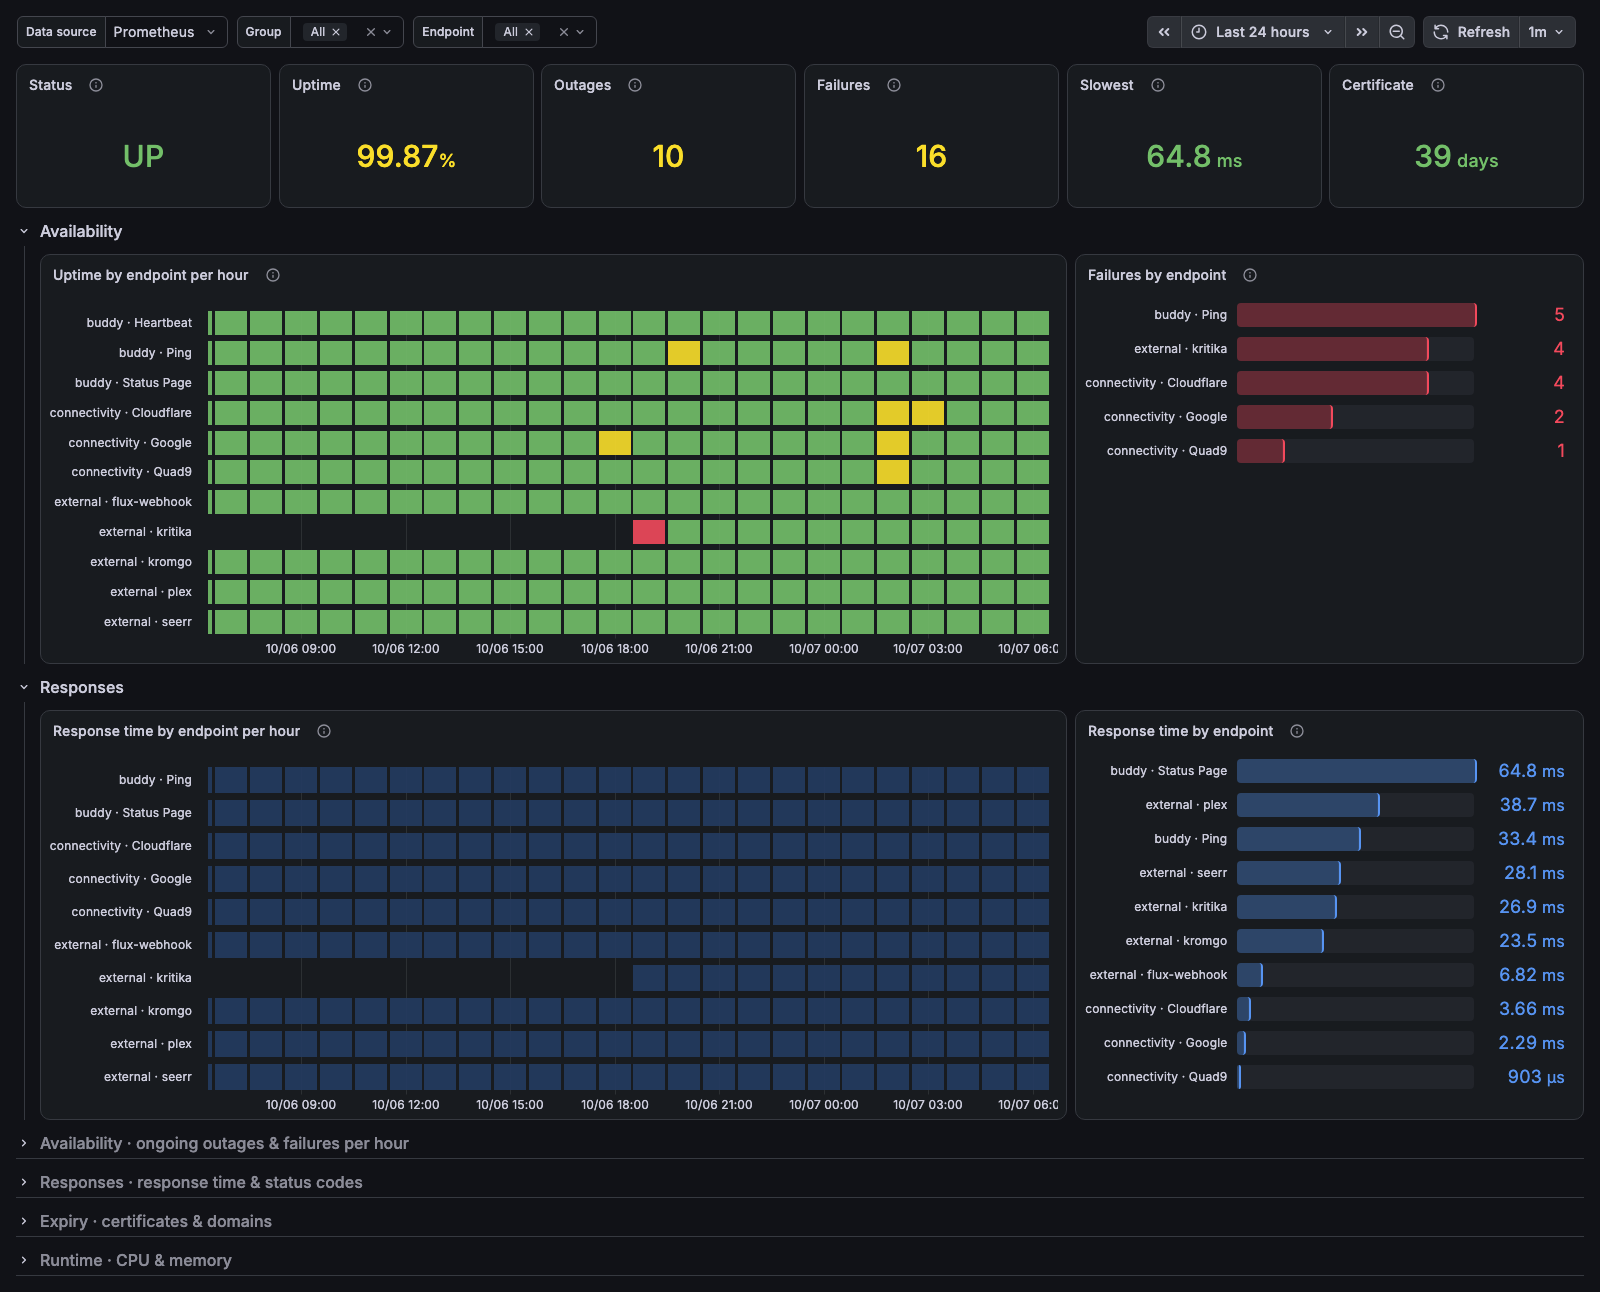
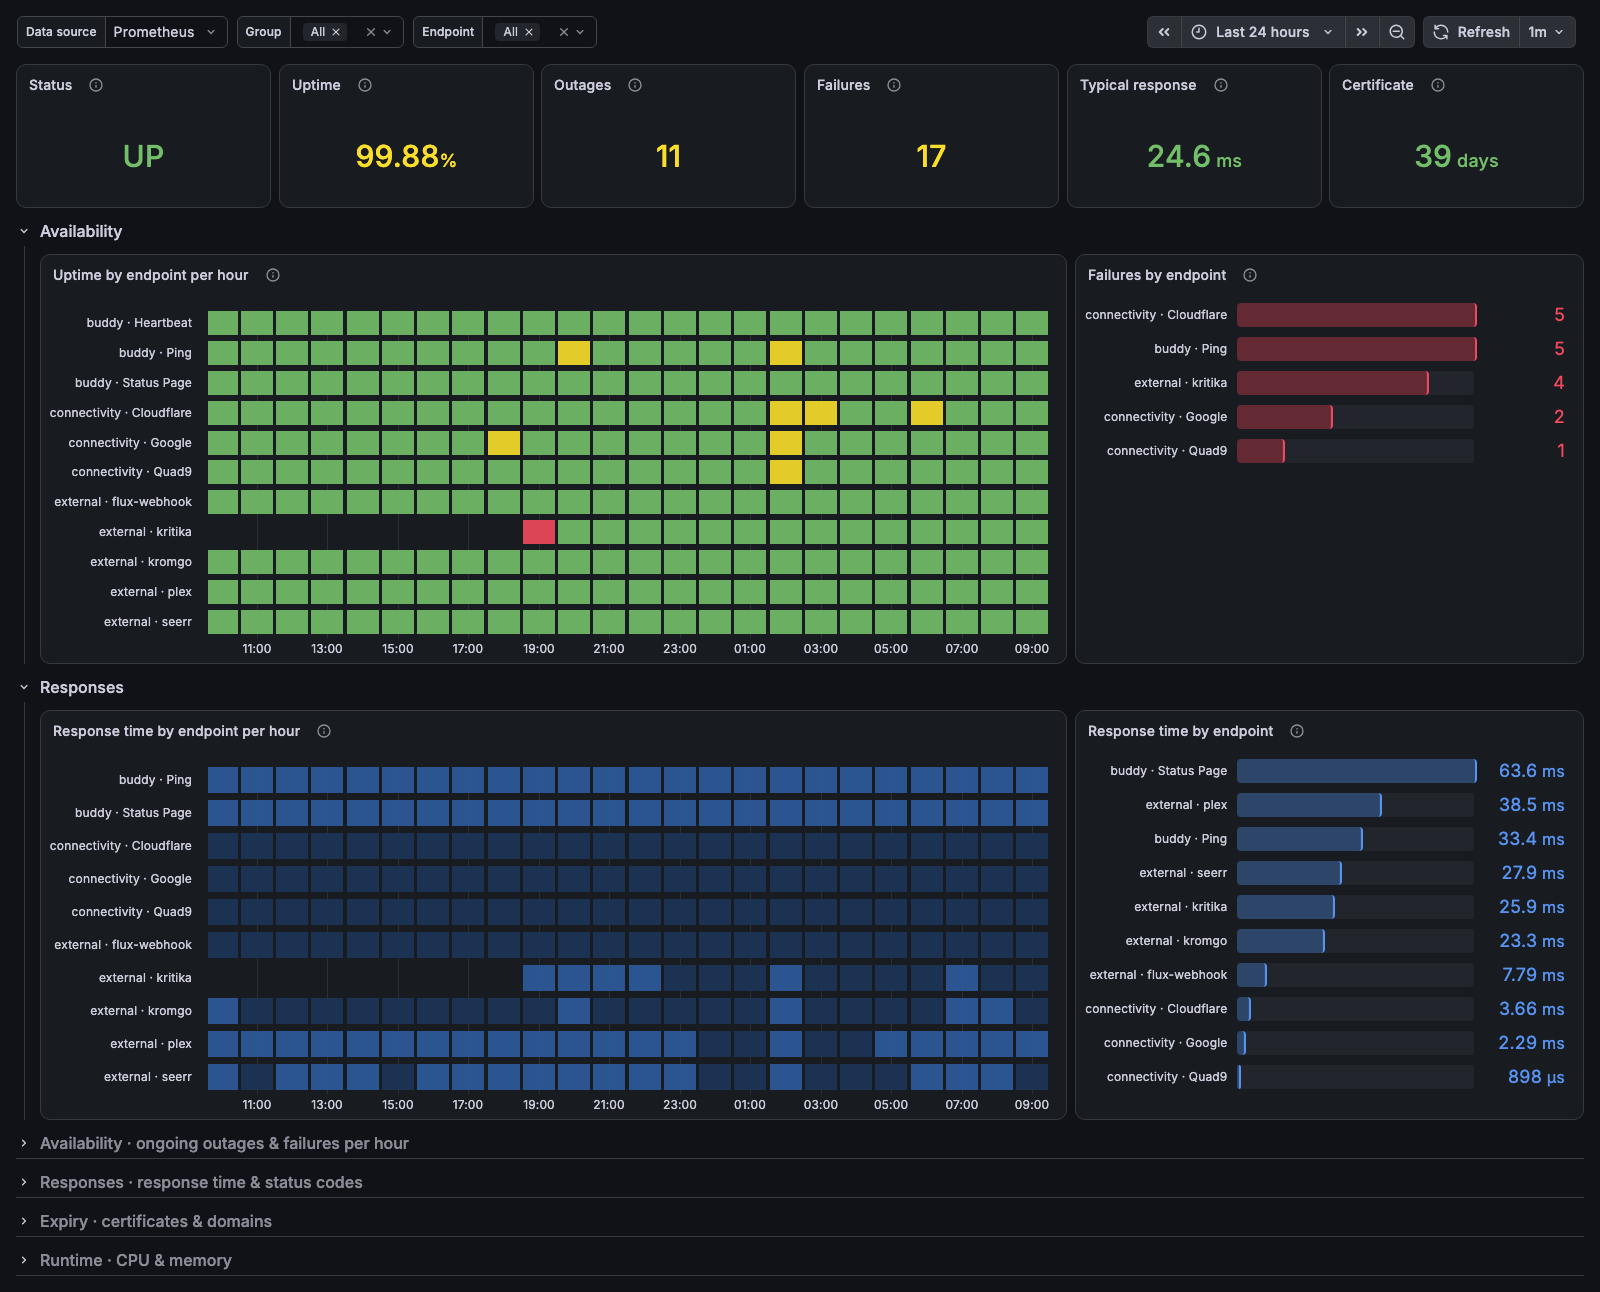
fix(gatus): replace the duplicate slowest tile and widen the response-time ramp
The Slowest tile repeated the first bar of Response time by endpoint; Typical response is the median of the endpoints' means. The hourly response-time grid now steps at 25, 100 and 250 ms and 1 s.

diff --git a/gatus/README.md b/gatus/README.md
@@ -8,7 +8,7 @@ Gatus: endpoint status, uptime, outages and response times.
 
 ## Overview
 
-Built on the Prometheus metrics exported by [Gatus](https://github.com/TwiN/gatus). The top row shows whether every endpoint's latest check passed, then uptime, outages, failed checks, the slowest endpoint's response time and days until the soonest certificate expires. Below it, uptime by endpoint per hour beside failures by endpoint, and response time by endpoint per hour beside the slowest endpoints.
+Built on the Prometheus metrics exported by [Gatus](https://github.com/TwiN/gatus). The top row shows whether every endpoint's latest check passed, then uptime, outages, failed checks, the typical endpoint response time and days until the soonest certificate expires. Below it, uptime by endpoint per hour beside failures by endpoint, and response time by endpoint per hour beside the slowest endpoints.
 
 Collapsed rows:
 - **Availability · ongoing outages & failures per hour:** endpoints failing now and for how long, and failed checks per hour split into unreachable and other failures.
